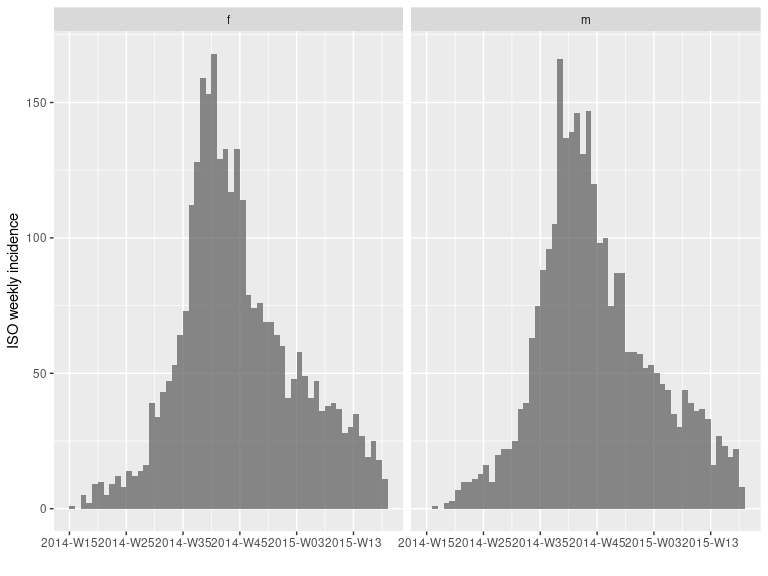
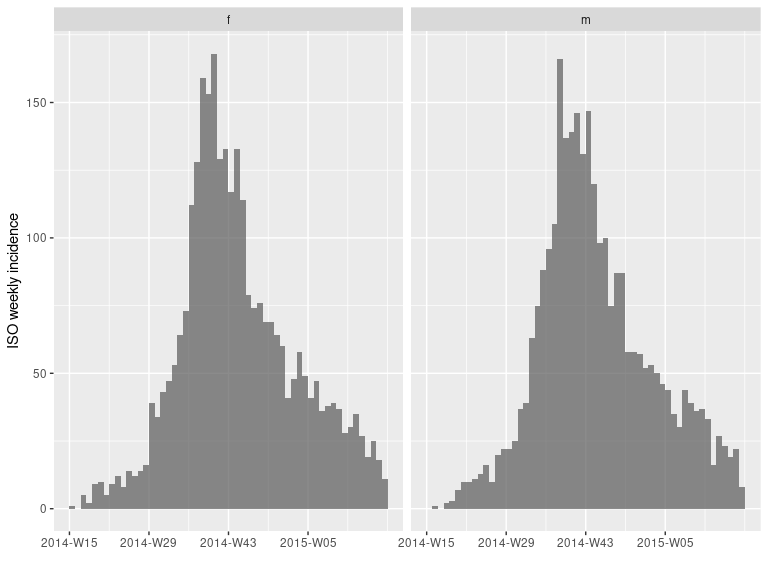
layout changes

Changed region(s): [[0.5938, 0.9062, 0.9688, 0.9688], [0.125, 0.9062, 0.5, 0.9688]]

diff --git a/README.md b/README.md
@@ -88,8 +88,9 @@ functionalities.
 ## Loading the data
 
 This example uses the simulated Ebola Virus Disease (EVD) outbreak from
-the package [*outbreaks*](https://github.com/reconhub/outbreaks) showing
-how to compute incidence for various time steps and manipulate the data.
+the package [*outbreaks*](https://github.com/reconhub/outbreaks). It
+shows how to compute incidence for various time steps and manipulate the
+data.
 
 First, we load the data:
 
@@ -200,7 +201,7 @@ plot(i_7_sex, stack = TRUE, border = "grey")
 we can facet our plot:
 
 ``` r
-facet_plot(i_7_sex)
+facet_plot(i_7_sex, n_breaks = 4)
 ```
 
 ![](figs/genderfacet-1.png)<!-- -->
